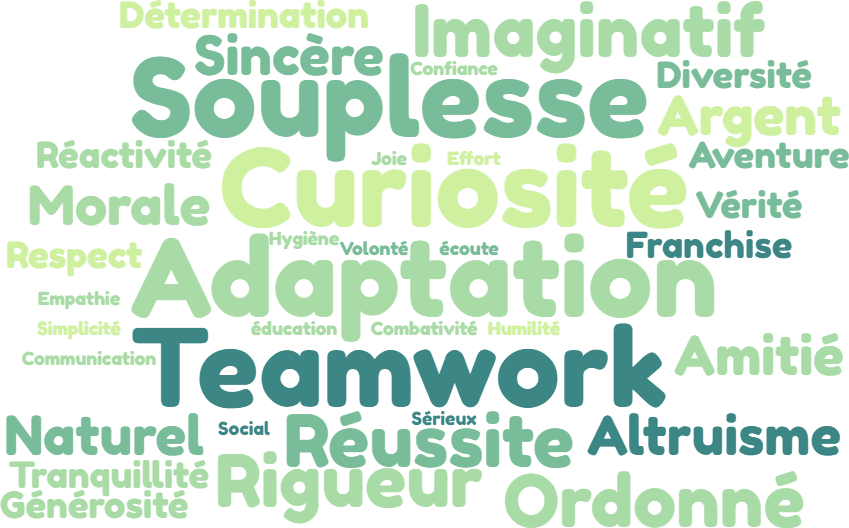
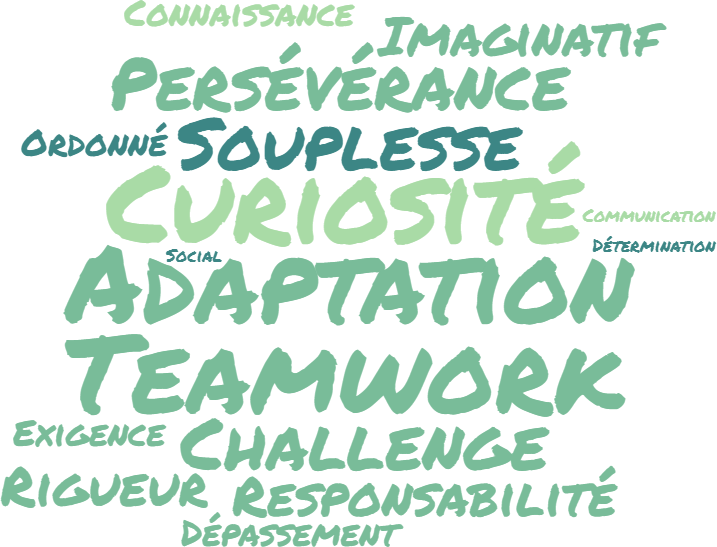
correction de fautes, modifications qualités, modif nom projets, modif nuage de mot, projet5&6 séparé, bug githublinks, lien linkedin,

diff --git a/public/index.html b/public/index.html
@@ -34,7 +34,6 @@
       name="description"
       content="Tout savoir sur Benjamin Clairotte, qu'elles sont ses compétences et ses projets déjà réalisés !"
     />
-
     <!-- Twitter summary card with large image must be at least 280x150px -->
     <meta name="twitter:card" content="summary_large_image" />
     <meta name="twitter:site" content="@BClairotte" />
@@ -75,7 +74,7 @@
             </h2>
           </div>
           <div class="box-fleche">
-            <a class="fleche" href="#Qui_Suis-je">></a>
+            <a class="fleche" href="#Qui_Suis-je">→</a>
           </div>
         </div>
         <canvas id="canvas"></canvas>
@@ -96,13 +95,13 @@
               SEO et de l’accessibilité d’un site web. Dans le dernier projet de
               ma formation, j’ai appris à utiliser Vue.js et VueX. <br />
               Je suis actuellement en recherche d’une alternance afin de
-              poursuivre mes études pour atteindre un bac+4. Je suis ouvert à la
-              mobilité et motivé. Le type de contrat, apprentissage ou
-              professionnalisation, sera selon votre choix. Lors de ma
-              formation, je me suis aussi entouré de personnes extrêmement
-              douées qui ont participé à mon apprentissage sur les logiciels
-              Photoshop et Sony Vegas 18, logiciels que je maîtrise bien
-              maintenant.
+              poursuivre mes études pour atteindre un bac+4. Je suis disposé à
+              me relocaliser et motivé. Je suis disponible pour les deux types
+              de contrats, apprentissage ou professionnalisation, sera selon
+              votre choix. Lors de ma formation, je me suis aussi entouré de
+              personnes extrêmement douées qui ont participé à mon apprentissage
+              sur les logiciels Photoshop et Sony Vegas 18, logiciels que je
+              maîtrise bien maintenant.
             </p>
             <div class="w-b green"></div>
             <ul class="réseaux">
@@ -122,7 +121,7 @@
               <li>
                 <a
                   target="_blank"
-                  href="https://www.linkedin.com/in/benjamin-clairotte-901881199/"
+                  href="https://www.linkedin.com/in/benjamin-clairotte/"
                   ><img
                     class="logo linkedin"
                     src="./img/Logo_Linkedin.jpeg"
@@ -215,11 +214,6 @@
             </div>
           </div>
           <div class="section-contact">
-            <p class="p-contact">
-              Concentrez-vous sur ce qui est important,
-              <span class="green">je m'occupe de tout le reste</span> en accord
-              avec <span class="green">vos demandes</span>.
-            </p>
             <a href="#Contact"><Btn class="contact">Contactez-moi</Btn></a>
           </div>
         </div>
@@ -244,11 +238,11 @@
                   alt="site créé pour le projet 2 d'OpenClassrooms"
                 />
                 <div class="card-body content-folio">
-                  <h5 class="card-title">Projet numéro 2 d'OpenClassrooms</h5>
+                  <h5 class="card-title">Cv en ligne</h5>
                   <p class="card-text black">
                     Projet numéro 2 d'OpenClassrooms consistant à créer un petit
-                    site à partir d'une maquette donnée. À coder en HTML et CSS
-                    et faire pour qu'il soit accessible depuis toutes les
+                    site à partir d'une maquette donnée. Coder en HTML et CSS et
+                    faire pour en sorte qu'il soit accessible depuis toutes les
                     plateformes.
                   </p>
                   <a
@@ -270,12 +264,13 @@
                   alt="site créé pour le projet 3 d'OpenClassrooms"
                 />
                 <div class="card-body content-folio">
-                  <h5 class="card-title">Projet numéro 3 d'OpenClassrooms</h5>
+                  <h5 class="card-title">Ohmyfood</h5>
                   <p class="card-text black">
                     Projet numéro 3 d'OpenClassrooms consistant à créer un site
-                    à partir d'une maquette donnée. À coder en HTML et en SASS
-                    avec des animations et à faire pour qu'il soit accessible
-                    depuis toutes les plateformes tout comme le précédent.
+                    à partir d'une maquette donnée. Coder en HTML et en SASS
+                    avec des animations et à faire en sorte qu'il soit
+                    accessible depuis toutes les plateformes tout comme le
+                    précédent projet.
                   </p>
                   <a
                     target="_blank"
@@ -296,7 +291,7 @@
                   alt="site créé pour le projet 4 d'OpenClassrooms"
                 />
                 <div class="card-body content-folio">
-                  <h5 class="card-title">Projet numéro 4 d'OpenClassrooms</h5>
+                  <h5 class="card-title">La Chouette Agence</h5>
                   <p class="card-text black">
                     Projet numéro 4 d'OpenClassrooms consistant à modifier un
                     site déjà existant pour le rendre plus accessible à tout le
@@ -325,45 +320,62 @@
             <div class="flex">
               <div class="card folio">
                 <img
-                  src="./img/card_P5.PNG"
+                  src="./img/Orinoco.JPG"
+                  class="card-img-top"
+                  alt="site créé pour le projet 5 d'OpenClassrooms"
+                />
+                <div class="card-body content-folio">
+                  <h5 class="card-title">
+                    Orinoco
+                  </h5>
+                  <p class="card-text black">
+                    Le projet numéro 5 d'OpenClassrooms consistant à utiliser
+                    une api côté frontend pour une entreprise d'e-commerce.
+                  </p>
+                  <a
+                    target="_blank"
+                    href="https://github.com/Naitchi/Projet-5-OpenClassrooms"
+                    class="btn btn-primary linkGithub"
+                    >Aller sur le repository
+                    <img
+                      class="logo linklogo"
+                      src="./img/GitHub_logo.png"
+                      alt="Logo Github"
+                    />Github du projet 5 →</a
+                  >
+                </div>
+              </div>
+            </div>
+          </div>
+          <div class="slide">
+            <div class="flex">
+              <div class="card folio">
+                <img
+                  src="./img/Piquante.JPG"
                   class="card-img-top"
                   alt="site créé pour le projet 5 & 6 d'OpenClassrooms"
                 />
                 <div class="card-body content-folio">
                   <h5 class="card-title">
-                    Projet numéro 5 & 6 d'OpenClassrooms
+                    Piquante
                   </h5>
                   <p class="card-text black">
-                    Les projets numéro 5 & 6 d'OpenClassrooms consistent à
-                    utiliser une api côté frontend pour le 5 et créer l'api côté
-                    backend pour le projet 6. Pour réduire mes coûts, ces sites
-                    sont lancés manuellement quand je les utilise. Ils ne sont
-                    donc pas disponibles.
+                    Le projet numéro 6 d'OpenClassrooms consistant à créer une
+                    API REST pour gérer un système de comptes utilisateurs et de
+                    produits que les utilisateurs peuvent noter ou en ajouter si
+                    inexistant. Codé en node.js et avec MongoDB.
                   </p>
-                  <div class="githublinks">
-                    <a
-                      target="_blank"
-                      href="https://github.com/Naitchi/Projet-5-OpenClassrooms"
-                      class="btn btn-primary linkGithub"
-                      >Aller sur le repository
-                      <img
-                        class="logo linklogo"
-                        src="./img/GitHub_logo.png"
-                        alt="Logo Github"
-                      />Github du projet 5 →</a
-                    >
-                    <a
-                      target="_blank"
-                      href="https://github.com/Naitchi/Projet-6-OpenClassrooms"
-                      class="btn btn-primary linkGithub"
-                      >Aller sur le repository
-                      <img
-                        class="logo linklogo"
-                        src="./img/GitHub_logo.png"
-                        alt="Logo Github"
-                      />Github du projet 6 →</a
-                    >
-                  </div>
+                  <a
+                    target="_blank"
+                    href="https://github.com/Naitchi/Projet-6-OpenClassrooms"
+                    class="btn btn-primary linkGithub"
+                    >Aller sur le repository
+                    <img
+                      class="logo linklogo"
+                      src="./img/GitHub_logo.png"
+                      alt="Logo Github"
+                    />Github du projet 6 →</a
+                  >
                 </div>
               </div>
             </div>
@@ -378,7 +390,7 @@
                 />
                 <div class="card-body content-folio">
                   <h5 class="card-title">
-                    Projet numéro 7 d'OpenClassrooms
+                    Groupamania
                   </h5>
                   <p class="card-text black">
                     Le projet numéro 7 d'OpenClassrooms consiste à construire un
@@ -427,14 +439,14 @@
                 />
                 <div class="card-body content-folio">
                   <h5 class="card-title">
-                    Site AmongLegends
+                    AmongLegends
                   </h5>
                   <p class="card-text black">
                     Site créé pour Solary qui permet aux gens de jouer à un
                     autre mode du jeu League of Legends, où il faut trouver les
-                    intru à la manière d'un "Among us". J'ai recréé le frontend
-                    du site en suivant la nouvelle maquette avec du Pug et du
-                    sass.
+                    intrus à la manière d'un "Among us". J'ai recréé le frontend
+                    du site en suivant la nouvelle maquette avec du PUG et du
+                    SASS.
                   </p>
                   <a
                     target="_blank"
@@ -481,7 +493,7 @@
                 Dylan Bouvier <span class="green">alias</span> Pwcca
               </h4>
               <h5 class="entreprise">
-                Community manager chez Misfit, Streamer
+                Community manager chez Solary, Streamer
               </h5>
               <p class="email">
                 dyl.bouvier<span class="green">@</span>gmail<span class="green"
@@ -517,9 +529,9 @@
           <h3 class="h-contact">Contact<span class="green">.</span></h3>
           <p class="p-c">
             Pour toute proposition de travail ou d'alternance je vous invite à
-            me contacter via mon email;
+            me contacter via mon email:
             <span class="green"> benjaminclairottepro@gmail.com</span>
-            ci-dessous. Ou au <span class="green">06.51.69.95.36</span>.
+            ci-dessous, ou au <span class="green">06.51.69.95.36</span>.
           </p>
           <div class="btn-contact">
             <a
@@ -543,6 +555,29 @@
     </div>
 
     <!--JS-->
+    <script type="module">
+      // Import the functions you need from the SDKs you need
+      import { initializeApp } from "https://www.gstatic.com/firebasejs/9.6.6/firebase-app.js";
+      import { getAnalytics } from "https://www.gstatic.com/firebasejs/9.6.6/firebase-analytics.js";
+      // TODO: Add SDKs for Firebase products that you want to use
+      // https://firebase.google.com/docs/web/setup#available-libraries
+
+      // Your web app's Firebase configuration
+      // For Firebase JS SDK v7.20.0 and later, measurementId is optional
+      const firebaseConfig = {
+        apiKey: "AIzaSyCFyw5-_DeIRaefiptdwnA-mq8bQofK5Kw",
+        authDomain: "cv-benjaminclairotte.firebaseapp.com",
+        projectId: "cv-benjaminclairotte",
+        storageBucket: "cv-benjaminclairotte.appspot.com",
+        messagingSenderId: "346433025901",
+        appId: "1:346433025901:web:a4cde99a1087b37f300c64",
+        measurementId: "G-DQP52DZCZ0",
+      };
+
+      // Initialize Firebase
+      const app = initializeApp(firebaseConfig);
+      const analytics = getAnalytics(app);
+    </script>
     <script src="./js/script.js"></script>
     <script src="./js/scrolloverflow.min.js"></script>
     <script src="./js/fullpage.js"></script>

diff --git a/public/css/style.css b/public/css/style.css
@@ -260,7 +260,7 @@ a > img {
 }
 .fleche {
   font-size: 7rem;
-  margin-left: 8px;
+  margin-left: 23px;
   transform: rotate(90deg);
   color: #fff;
   text-decoration: none;
@@ -559,8 +559,7 @@ a:hover {
   display: flex;
   flex-direction: row;
   flex-wrap: wrap;
-  align-content: center;
-  justify-content: flex-start;
+  justify-content: space-around;
 }
 .p-c {
   font-size: 1.5rem;
